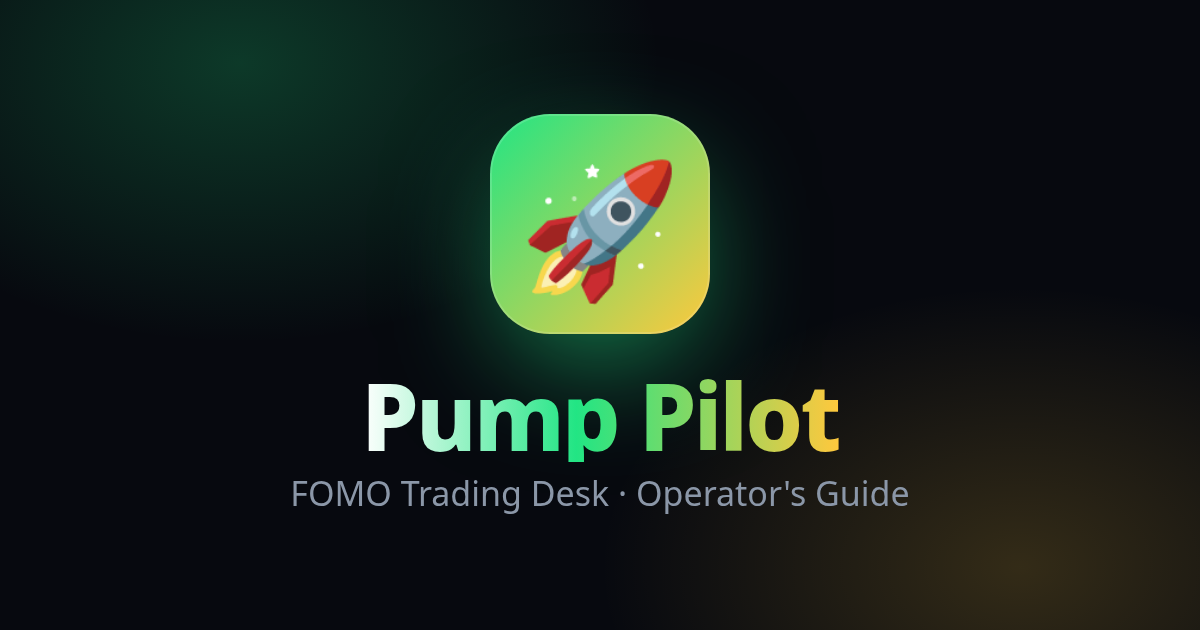
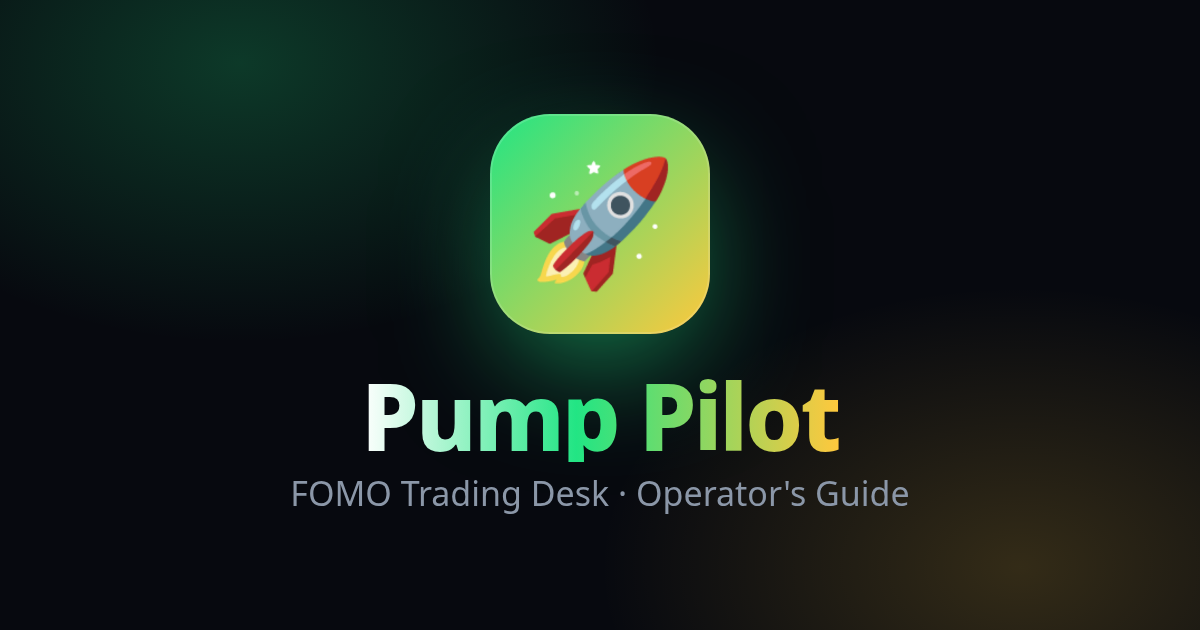
guide header rocket image

Changed region(s): [[0.4317, 0.2413, 0.5858, 0.4825]]

diff --git a/guide.html b/guide.html
@@ -3,9 +3,9 @@
 <meta name="description" content="Pump Pilot · FOMO Trading Desk operator's guide">
 <meta property="og:type" content="website"><meta property="og:site_name" content="Pump Pilot">
 <meta property="og:title" content="Pump Pilot · Desk Guide"><meta property="og:description" content="FOMO Trading Desk · Operator's Guide">
-<meta property="og:url" content="https://dustinbryantceo-dev.github.io/fomo-desk/guide.html"><meta property="og:image" content="https://dustinbryantceo-dev.github.io/fomo-desk/guide-og.png?v=1">
+<meta property="og:url" content="https://dustinbryantceo-dev.github.io/fomo-desk/guide.html"><meta property="og:image" content="https://dustinbryantceo-dev.github.io/fomo-desk/guide-og.png?v=2">
 <meta property="og:image:width" content="1200"><meta property="og:image:height" content="630"><meta property="og:image:alt" content="Pump Pilot rocket logo">
-<meta name="twitter:card" content="summary_large_image"><meta name="twitter:image" content="https://dustinbryantceo-dev.github.io/fomo-desk/guide-og.png?v=1">
+<meta name="twitter:card" content="summary_large_image"><meta name="twitter:image" content="https://dustinbryantceo-dev.github.io/fomo-desk/guide-og.png?v=2">
 <link rel="icon" type="image/png" href="guide-icon.png"><link rel="apple-touch-icon" href="guide-icon.png">
 
 <style>
@@ -72,7 +72,7 @@ footer{text-align:center;color:var(--mut);font-size:.85rem;margin-top:30px}
 @media(prefers-reduced-motion:reduce){*{animation:none!important}}
 @media print{body{background:#07090f;-webkit-print-color-adjust:exact;print-color-adjust:exact}nav{display:none}section{break-inside:avoid}}
 </style></head><body><main>
-<header class="hero"><div class="logo">🚀</div><h1>Pump Pilot</h1><p class="sub">FOMO Trading Desk · Operator's Guide</p>
+<header class="hero"><div class="logo"><img src="rocket.png" alt="Pump Pilot rocket" width="46" height="46" style="width:46px;height:46px;display:block"></div><h1>Pump Pilot</h1><p class="sub">FOMO Trading Desk · Operator's Guide</p>
 <div class="pills"><span class="pill live">Live</span><span class="pill">5 bots</span><span class="pill">24/7</span><span class="pill">Telegram control</span></div></header>
 <nav><a href="#what">🤖 Bots</a><a href="https://t.me/DaddyDK_fomodesk_bot" target="_blank" rel="noopener">💬 Telegram ↗</a><a href="#rules">🛡 Rules</a><a href="#change">🎛 Change rules</a><a href="https://dustinbryantceo-dev.github.io/fomo-desk/" target="_blank" rel="noopener">📊 Web app ↗</a><a href="http://127.0.0.1:6080/vnc.html?autoconnect=1&amp;resize=scale" target="_blank" rel="noopener">🖥 Live screen ↗</a><a href="grokbot://app/v1/settings?id=usage">⚡ Usage ↗</a><a href="#safety">🔒 Safety</a><a href="#trouble">🧰 Fixes</a></nav>
 
